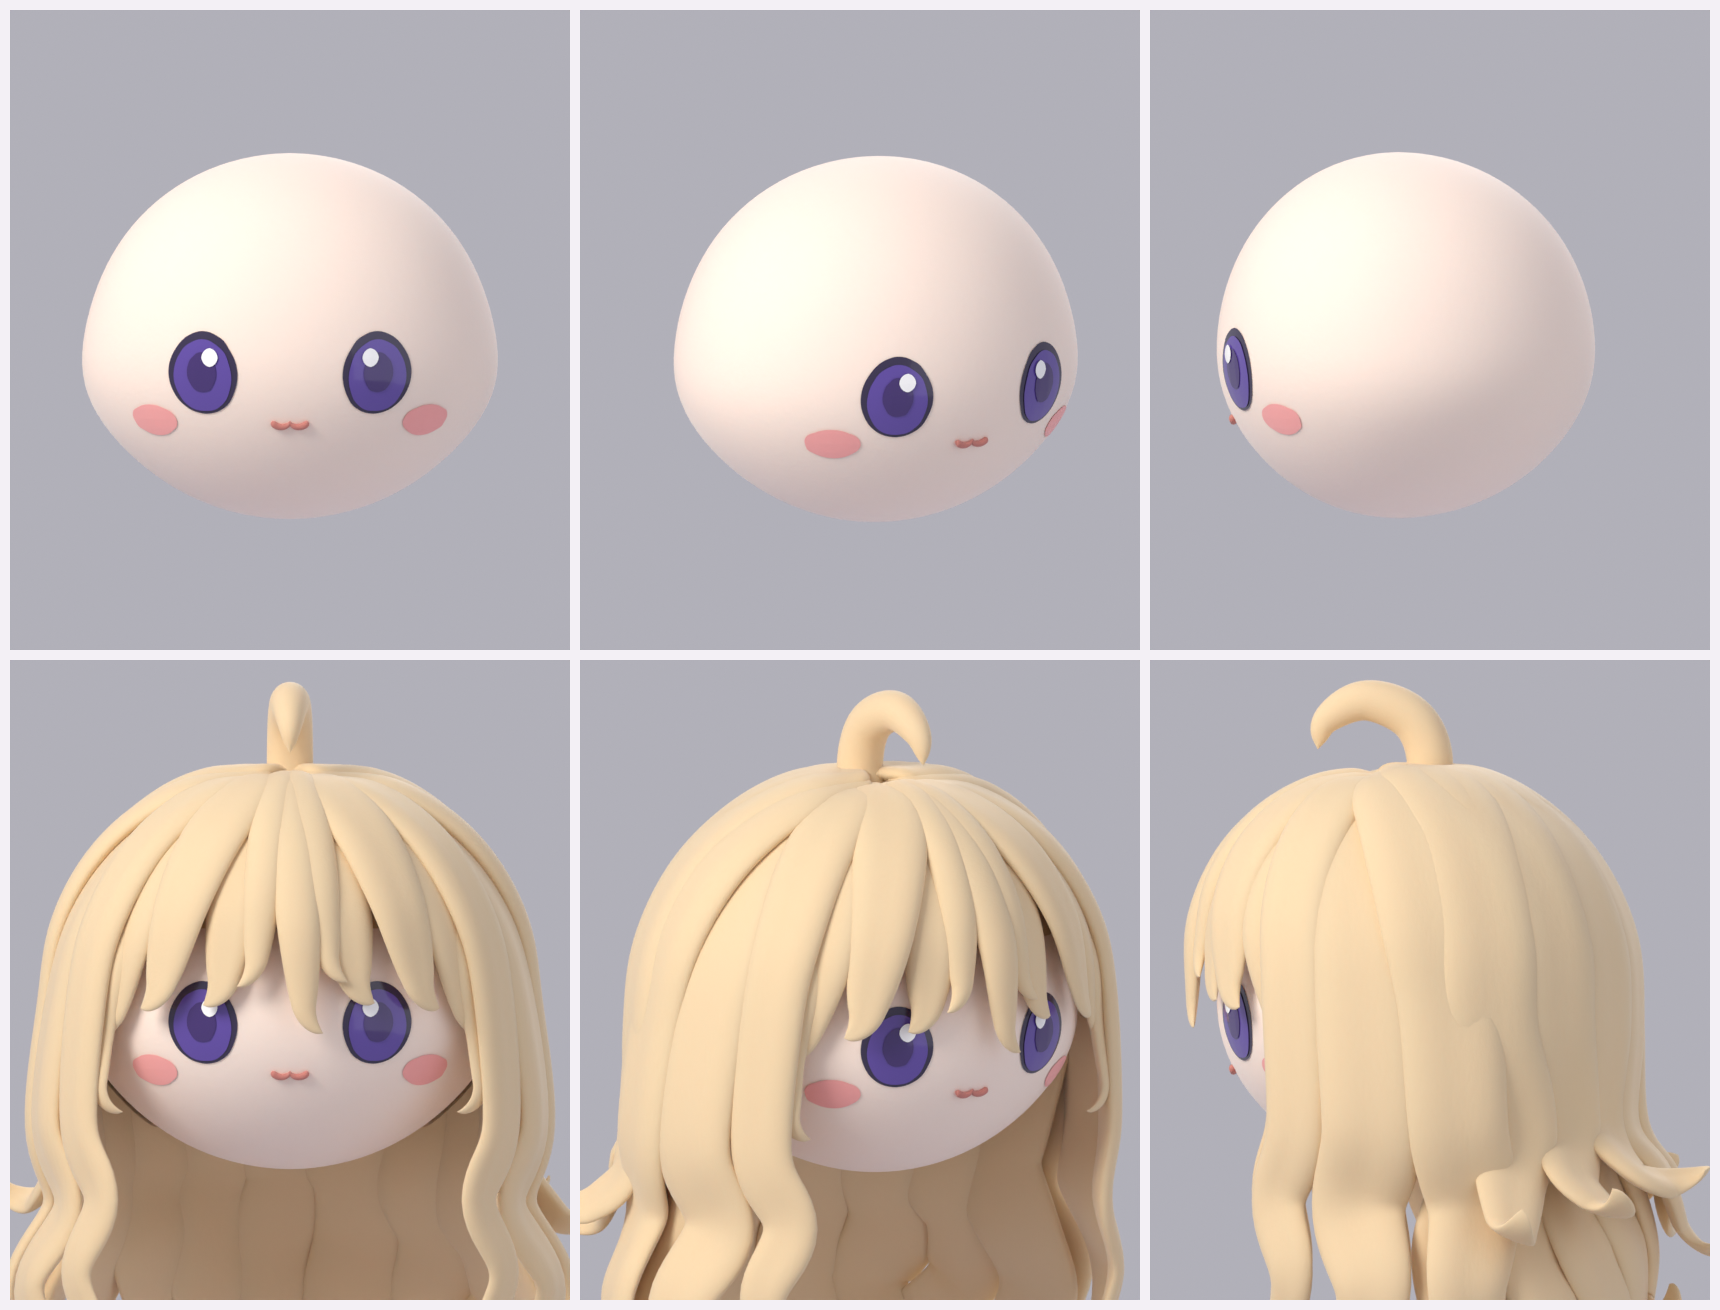
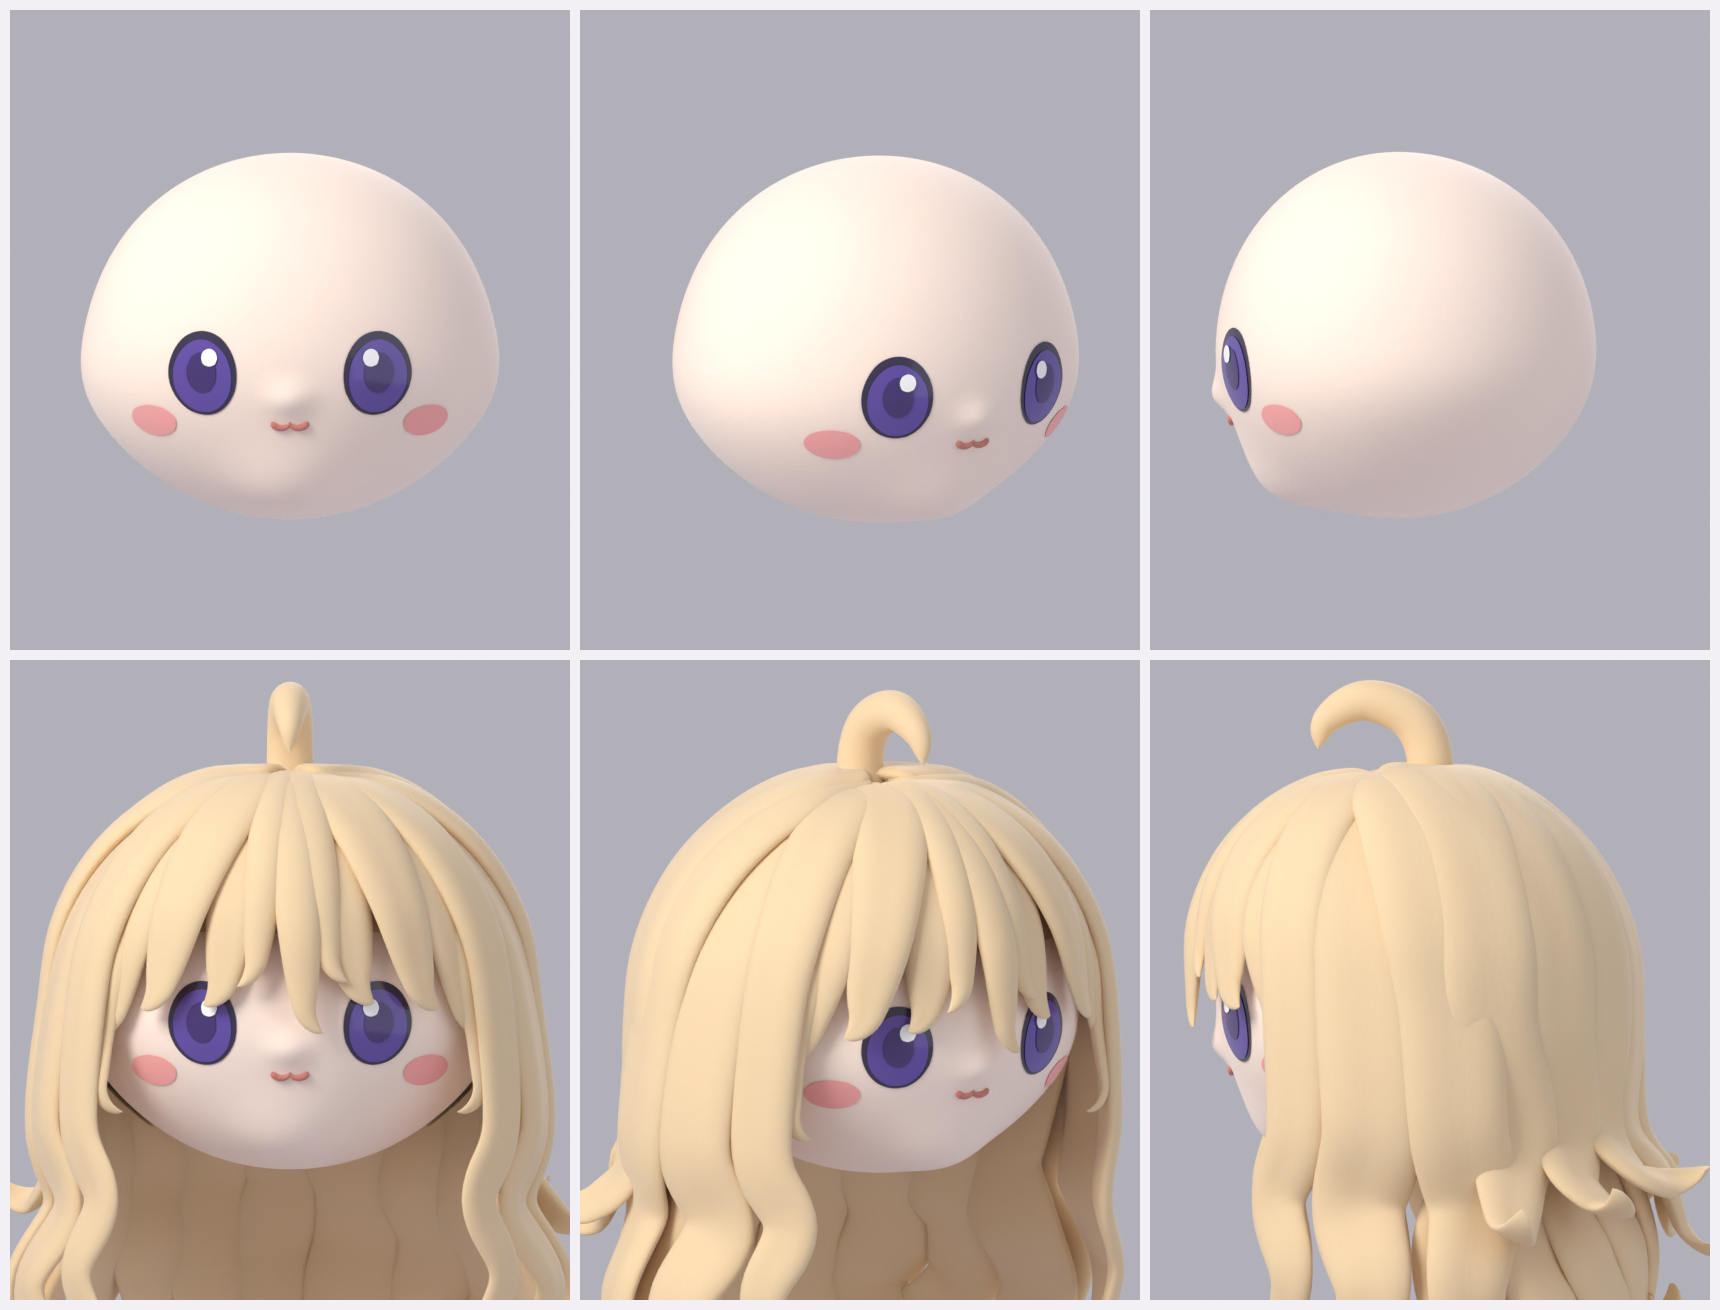
두상: 턱·코 돌출 추가, 두상 메시 해상도 상향
Claude-Session: https://claude.ai/code/session_013vYkAwcZjb4s3cxt5sEN9t

diff --git a/tools/3d/blender/hair.py b/tools/3d/blender/hair.py
@@ -24,8 +24,11 @@ def mk(name,V,F,mat,sub=0):
     return o
 # ---- head (context only) ----
 R=.245;HC=Vector((0,0,.665))
+CHIN=Vector((0,-.64,-.77)).normalized();NOSE=Vector((0,-1,-.3)).normalized()
+def bump(d):
+    d=Vector(d).normalized();a=d.angle(CHIN);b=d.angle(NOSE);return 1+.11*exp(-(a/.27)**2)+.07*exp(-(b/.085)**2)
 def skull(d):
-    x,y,z=d;ck=1+.055*exp(-((z+.3)/.4)**2);return Vector((x*1.03*ck,y*(.92 if y<0 else 1.0)*(1+.02*exp(-((z+.3)/.4)**2)),z*(.97 if z>0 else .9)))*R
+    x,y,z=d;ck=1+.055*exp(-((z+.3)/.4)**2);return Vector((x*1.03*ck,y*(.92 if y<0 else 1.0)*(1+.02*exp(-((z+.3)/.4)**2)),z*(.97 if z>0 else .9)))*R*bump(d)
 def sphere_dirs(nu=40,nv=26):
     V=[Vector((0,0,1))];F=[]
     for i in range(1,nv):
@@ -36,7 +39,7 @@ def sphere_dirs(nu=40,nv=26):
     for i in range(nv-2):
         for j in range(nu):F.append((1+i*nu+j,1+(i+1)*nu+j,1+(i+1)*nu+(j+1)%nu,1+i*nu+(j+1)%nu))
     return V,F
-dv,df=sphere_dirs();head=mk('head',[HC+skull(d) for d in dv],df,'skin',sub=1)
+dv,df=sphere_dirs(96,64);head=mk('head',[HC+skull(d) for d in dv],df,'skin',sub=1)
 def SK(az,ph,off=0):
     d=Vector((sin(az)*sin(ph),-cos(az)*sin(ph),cos(ph)));return HC+skull(d)+d*off
 def decal(az,el,rx,rz,mat,off,dx=0,dz=0):
